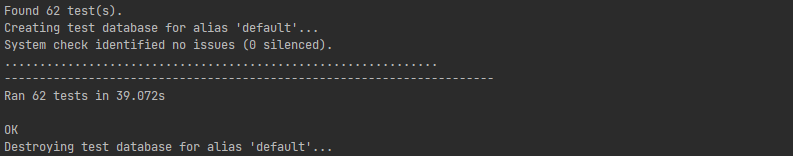
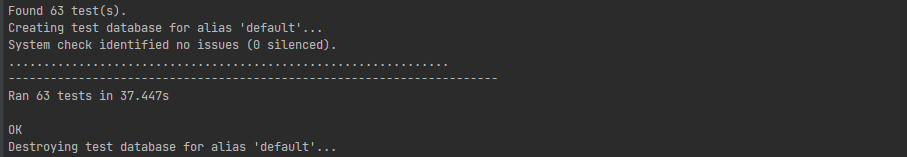
fixed update

diff --git a/crm/views.py b/crm/views.py
@@ -1,6 +1,6 @@
 from django_filters.rest_framework import DjangoFilterBackend
 from rest_framework import status, generics
-from rest_framework.exceptions import PermissionDenied, ValidationError
+from rest_framework.exceptions import ValidationError
 from rest_framework.filters import SearchFilter
 from rest_framework.permissions import IsAuthenticated
 from rest_framework.response import Response
@@ -53,10 +53,10 @@ class ClientDetail(generics.RetrieveUpdateDestroyAPIView):
 
     def update(self, request, *args, **kwargs):
         client = self.get_object()
-        serializer = ClientSerializer(data=request.data)
+        serializer = ClientSerializer(data=request.data, instance=client)
         if serializer.is_valid(raise_exception=True):
             if client.status is True and serializer.validated_data['status'] is False:
-                raise PermissionDenied("Cannot change status of converted client.")
+                raise ValidationError("Cannot change status of converted client.")
             elif serializer.validated_data['status'] is True:
                 serializer.validated_data['sales_contact'] = request.user
             serializer.save()
@@ -85,9 +85,6 @@ class ContractList(generics.ListCreateAPIView):
     def post(self, request, *args, **kwargs):
         serializer = ContractSerializer(data=request.data)
         if serializer.is_valid(raise_exception=True):
-            client = generics.get_object_or_404(Client, id=serializer.validated_data['client'].id)
-            if client.status is False:
-                raise ValidationError("The client is not converted.")
             serializer.validated_data['sales_contact'] = request.user
             serializer.save()
             return Response(serializer.data, status=status.HTTP_201_CREATED)
@@ -100,7 +97,7 @@ class ContractDetail(generics.RetrieveUpdateAPIView):
     serializer_class = ContractSerializer
 
     def update(self, request, *args, **kwargs):
-        serializer = ContractSerializer(data=request.data)
+        serializer = ContractSerializer(data=request.data, instance=self.get_object())
         if serializer.is_valid(raise_exception=True):
             serializer.validated_data['sales_contact'] = request.user
             serializer.save()
@@ -131,9 +128,6 @@ class EventList(generics.ListCreateAPIView):
     def post(self, request, *args, **kwargs):
         serializer = EventSerializer(data=request.data)
         if serializer.is_valid(raise_exception=True):
-            contract = generics.get_object_or_404(Contract, id=serializer.validated_data['contract'].id)
-            if contract.status is False:
-                raise ValidationError("The contract is not signed.")
             serializer.save()
             return Response(serializer.data, status=status.HTTP_201_CREATED)
 
@@ -149,7 +143,7 @@ class EventDetail(generics.RetrieveUpdateAPIView):
         serializer = EventSerializer(instance=event, data=request.data)
         if serializer.is_valid(raise_exception=True):
             if serializer.validated_data['contract'] != event.contract:
-                raise PermissionDenied("You are not allowed to change the related contract.")
+                raise ValidationError("Cannot change the related contract.")
             serializer.validated_data['support_contact'] = event.support_contact
             serializer.save()
             return Response(serializer.data, status=status.HTTP_202_ACCEPTED)

diff --git a/crm/tests/tests_clients.py b/crm/tests/tests_clients.py
@@ -1,5 +1,5 @@
 from rest_framework import status
-from rest_framework.exceptions import PermissionDenied
+from rest_framework.exceptions import PermissionDenied, ValidationError
 from rest_framework.reverse import reverse
 
 from crm.models import Client
@@ -62,7 +62,7 @@ class ClientListTests(CustomAPITestCase):
         self.assertEqual(response.status_code, status.HTTP_201_CREATED)
         self.assertEqual('test_client@email.com', response.data['email'])
 
-    def test_sales_post_client(self):
+    def test_sales_post_client_status_true(self):
         """Sales can post new client
         Check if sales_contact is user
         """
@@ -79,6 +79,24 @@ class ClientListTests(CustomAPITestCase):
         self.assertEqual(response.status_code, status.HTTP_201_CREATED)
         self.assertIn('test_client@email.com', response.data['email'])
         self.assertEqual(user.id, response.data['sales_contact'])
+
+    def test_sales_post_client_status_false(self):
+        """Sales can post new prospect
+        Check if sales_contact is None
+        """
+        user = User.objects.get(username='test_sales')
+        test_client = self.get_token_auth_client(user)
+        data = {
+            'first_name': 'first_name',
+            'last_name': 'last_name',
+            'email': 'test_client@email.com',
+            'status': False
+        }
+        response = test_client.post(self.client_list_url, data, format='json')
+
+        self.assertEqual(response.status_code, status.HTTP_201_CREATED)
+        self.assertIn('test_client@email.com', response.data['email'])
+        self.assertEqual(response.data['sales_contact'], None)
 
     def test_post_client_incomplete_data(self):
         """Check validation for missing fields in request"""
@@ -174,7 +192,7 @@ class ClientDetailTests(CustomAPITestCase):
             'status': False
         }
         test_client.put('/crm/clients/2/', data)
-        self.assertRaises(PermissionDenied, msg='Cannot change status of converted client.')
+        self.assertRaises(ValidationError, msg='Cannot change status of converted client.')
 
     def test_sales_delete_prospect(self):
         """Sales can delete client if status is False"""

diff --git a/crm/permissions.py b/crm/permissions.py
@@ -35,8 +35,7 @@ class ClientPermissions(permissions.BasePermission):
             return request.user.team == SALES and obj.status is False
         elif request.user.team == SUPPORT and request.method in permissions.SAFE_METHODS:
             return obj in Client.objects.filter(contract__event__support_contact=request.user)
-        elif request.user.team == SALES:
-            return request.user == obj.sales_contact or obj.status is False
+        return request.user == obj.sales_contact or obj.status is False
 
 
 class ContractPermissions(permissions.BasePermission):
@@ -54,8 +53,7 @@ class ContractPermissions(permissions.BasePermission):
         if request.method in permissions.SAFE_METHODS:
             if request.user.team == SUPPORT:
                 return obj in Contract.objects.filter(event__support_contact=request.user)
-            elif request.user.team == SALES:
-                return request.user == obj.sales_contact
+            return request.user == obj.sales_contact
         elif request.method == 'PUT' and obj.status is True:
             raise PermissionDenied("Cannot update a signed contract.")
         return request.user == obj.sales_contact and obj.status is False
@@ -82,5 +80,4 @@ class EventPermissions(permissions.BasePermission):
                 raise PermissionDenied("Cannot update a finished event.")
             if request.user.team == SUPPORT:
                 return request.user == obj.support_contact
-            elif request.user.team == SALES:
-                return request.user == obj.contract.sales_contact
+            return request.user == obj.contract.sales_contact

diff --git a/crm/serializers.py b/crm/serializers.py
@@ -16,9 +16,19 @@ class ContractSerializer(serializers.ModelSerializer):
         fields = '__all__'
         read_only__fields = ['date_created', 'date_updated', 'sales_contact', 'id']
 
+    def validate_client(self, value):
+        if value.status is False:
+            raise serializers.ValidationError("The client is not converted.")
+        return value
+
 
 class EventSerializer(serializers.ModelSerializer):
     class Meta:
         model = Event
         fields = '__all__'
         read_only__fields = ['date_created', 'date_updated', 'support_contact', 'event_status', 'id']
+
+    def validate_contract(self, value):
+        if value.status is False:
+            raise serializers.ValidationError("The contract is not signed.")
+        return value

diff --git a/crm/tests/tests_events.py b/crm/tests/tests_events.py
@@ -252,4 +252,4 @@ class EventDetailTests(CustomAPITestCase):
             'notes': 'Example note'
         }
         test_client.put('/crm/events/1/', data)
-        self.assertRaises(PermissionDenied, msg='You are not allowed to change the related contract.')
+        self.assertRaises(ValidationError, msg='Cannot change the related contract.')

diff --git a/EpicEvents/urls.py b/EpicEvents/urls.py
@@ -6,3 +6,7 @@ urlpatterns = [
     path('crm/', include('crm.urls')),
     path('', include('users.urls')),
 ]
+
+admin.site.site_header = "EpicEvents Admin"
+admin.site.site_title = "EpicEvents Admin"
+admin.site.index_title = "EpicEvents Admin"

diff --git a/README.md b/README.md
@@ -84,11 +84,30 @@ Il est possible de naviguer dans l'API avec différents outils :
 - la plateforme [Postman](https://www.postman.com/) ;
 - l'outil de commandes [cURL](https://curl.se)
 
+Note : l'accès au CRM par les managers et admins est en lecture seule. 
+La création, modification ou suppression d'éléments est possible via le site d'administration.
+
 ### Administration
 
-Le site d'administration Django est accessible via http://127.0.0.1:8000/admin/
-
+Le site d'administration Django est accessible via http://127.0.0.1:8000/admin/.
 Cet accès est possible pour tous les utilisateurs de l'équipe de gestion (management) et les superusers.
+
+Ci-dessous, quelques exemples de l'interface du site d'administration ;
+
+- **Liste des utilisateurs :**
+![Admin users](img/admin_users.png)
+
+
+- **Liste des clients :**
+![Admin clients](img/admin_clients.png)
+
+
+- **Liste des contrats :**
+![Admin contracts](img/admin_contracts.png)
+
+
+- **Liste des événements :**
+![Admin events](img/admin_events.png)
 
 ### Logging
 
@@ -96,19 +115,13 @@ L'application consigne les erreurs et exceptions dans le fichier [errors.log](er
 
 ### Tests
 
-Il est possible d'effectuer les tests via la commande :
+Il est possible d'effectuer les tests via la commande ```python manage.py test```. 
 
-```
-python manage.py test
-```
-Rapport de test le plus récent :
-
+> *Rapport de test le plus récent*
 ![Rapport de test](img/test_report.png)
 
-Les tests couvrent 98% de l'application (voir [rapport](img/coverage_report.png) le plus récent). 
-Pour effectuer le test de couverture :
 
-```
-coverage run --source='.' manage.py test
-coverage report
-```
+Pour effectuer le test de couverture : ```coverage run --source='.' manage.py test``` puis ```coverage report```.
+
+> *Rapport de couverture le plus récent*
+![Rapport de test](img/coverage_report.png)
